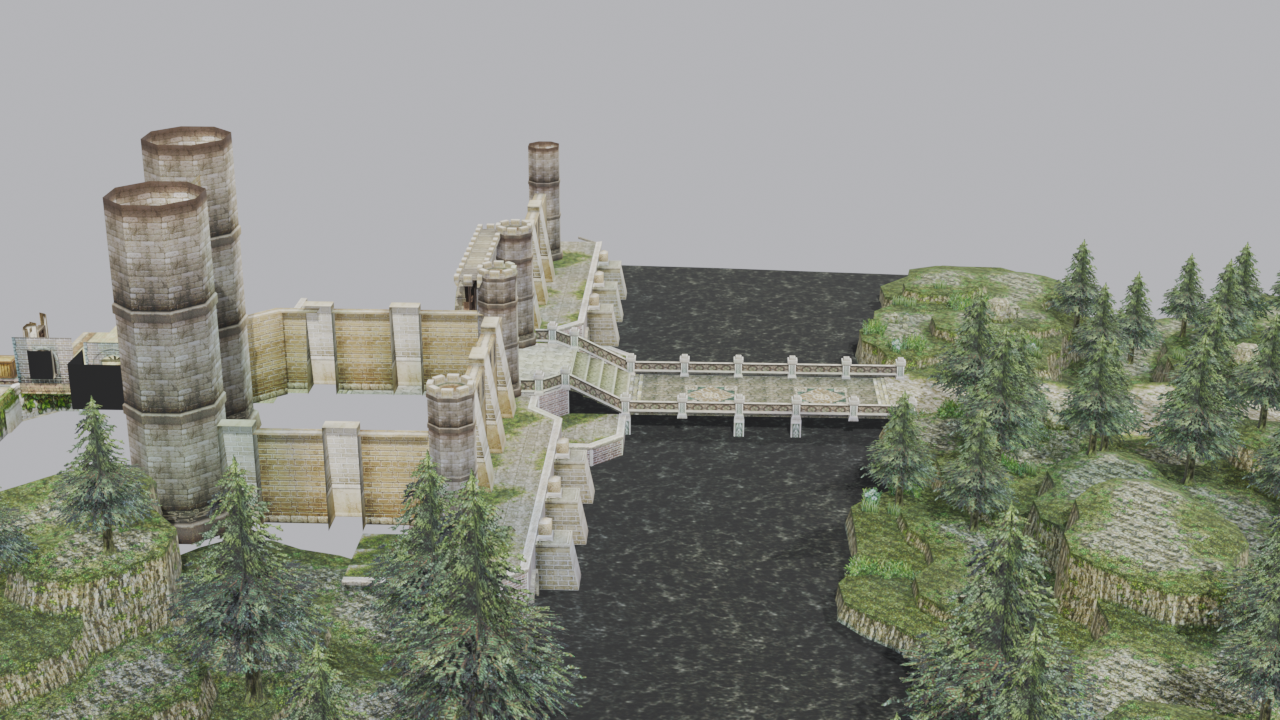
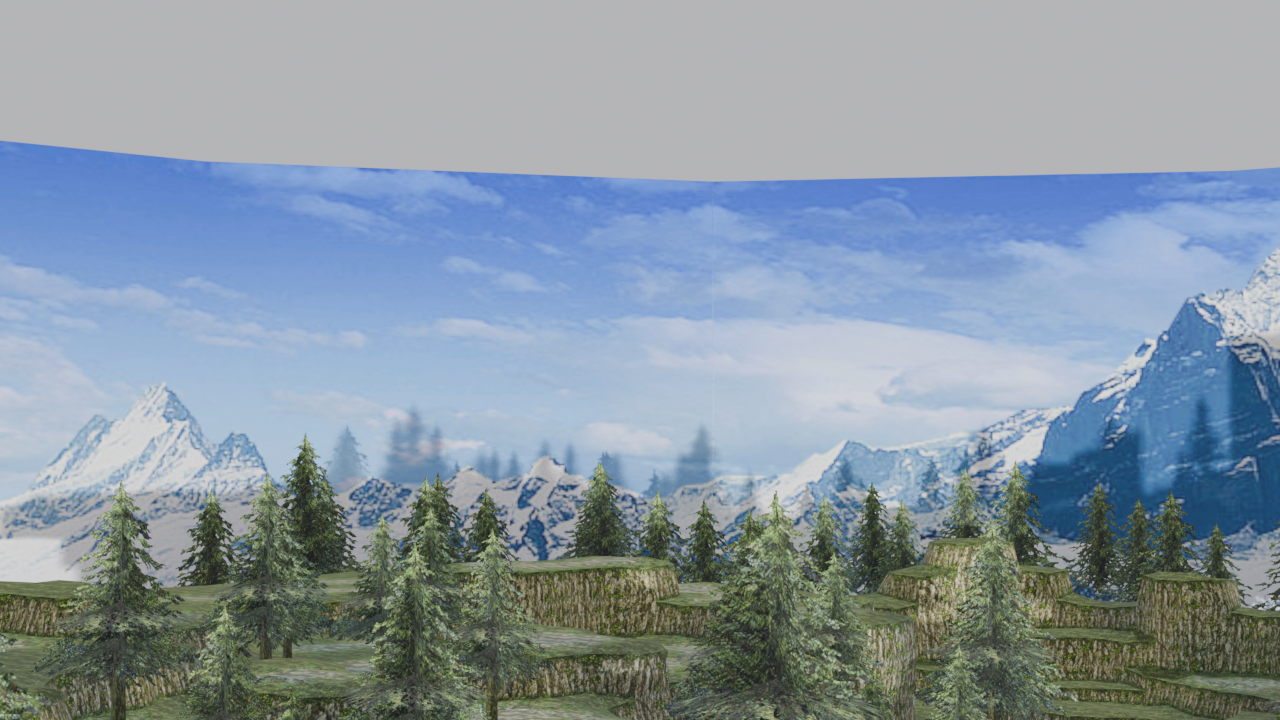
feat(pipeline): add multi-game support for Ys Origin and Ys VI, update showcase renders
- Added multi-game support to extract-and-convert-all auto-discovering all 3 Steam games (Ys: The Oath in Felghana, Ys Origin, Ys VI: The Ark of Napishtim)
- Updated showcase renders with rotated perspective angles (Redmont Tavern, Village, Castle Gate, and Tigray Quarry flat mountain backdrop plane)
- Updated README and ORIENTATION guides

diff --git a/src/tools/extract_and_convert_all.py b/src/tools/extract_and_convert_all.py
@@ -1,15 +1,19 @@
 #!/usr/bin/env python3
 """
-Turnkey high-performance end-to-end extraction and conversion pipeline for Ys: The Oath in Felghana.
-Extracts all map archives, converts every stage scene (.SOB) and 3D model (.YMO) to textured GLB,
-sets up alpha masks for foliage and light shafts, and generates an output manifest.
+Turnkey high-performance end-to-end extraction and conversion pipeline for Falcom Napishtim Engine titles:
+- Ys: The Oath in Felghana
+- Ys Origin
+- Ys VI: The Ark of Napishtim
+
+Extracts all map archives, converts every stage scene (.SOB) and 3D model (.YMO) to textured GLB with discrete nodes,
+sets up alpha masks for foliage and light shafts, and auto-discovers installed Steam games.
 """
 
 import os
 import sys
 import time
 from pathlib import Path
-from typing import Optional, List, Dict, Any
+from typing import Optional, List, Dict, Any, Tuple
 from concurrent.futures import ProcessPoolExecutor, as_completed
 
 from src.extractor.archive import NiArchive
@@ -17,7 +21,23 @@ from src.converter.ymo_parser import YmoParser, YmoModel
 from src.converter.gltf_exporter import GltfExporter
 from src.converter.stage_builder import StageBuilder
 
-DEFAULT_STEAM_PATH = Path("/mnt/c/Program Files (x86)/Steam/steamapps/common/Ys The Oath in Felghana/release/data.ni")
+KNOWN_GAMES = {
+    "felghana": {
+        "name": "Ys: The Oath in Felghana",
+        "steam_path": Path("/mnt/c/Program Files (x86)/Steam/steamapps/common/Ys The Oath in Felghana/release/data.ni"),
+        "archive_filter": "MAP\\",
+    },
+    "origin": {
+        "name": "Ys Origin",
+        "steam_path": Path("/mnt/c/Program Files (x86)/Steam/steamapps/common/Ys Origin/release/data.ni"),
+        "archive_filter": "MAP\\",
+    },
+    "ys6": {
+        "name": "Ys VI: The Ark of Napishtim",
+        "steam_path": Path("/mnt/c/Program Files (x86)/Steam/steamapps/common/Ys VI/release/data.ni"),
+        "archive_filter": "MAP\\",
+    },
+}
 
 def convert_single_stage(args_tuple) -> Dict[str, Any]:
     sob_path_str, extracted_dir_str, stages_out_str = args_tuple
@@ -68,42 +88,41 @@ def convert_single_model(args_tuple) -> bool:
     except Exception:
         return False
 
-def run_full_pipeline(
-    archive_path: Optional[Path] = None,
-    extracted_dir: Path = Path("extracted"),
-    output_dir: Path = Path("output"),
+def process_game(
+    game_key: str,
+    game_info: Dict[str, Any],
+    base_extracted_dir: Path,
+    base_output_dir: Path,
     num_workers: int = 12
 ):
-    start_time = time.time()
-    extracted_dir = Path(extracted_dir)
-    output_dir = Path(output_dir)
+    game_name = game_info["name"]
+    archive_path = game_info["steam_path"]
+    
+    if not archive_path.exists():
+        print(f"\n[!] Skipping {game_name}: Archive not found at {archive_path}")
+        return
+
+    extracted_dir = base_extracted_dir / game_key
+    output_dir = base_output_dir / game_key
     stages_out = output_dir / "stages"
     models_out = output_dir / "models"
     stages_out.mkdir(parents=True, exist_ok=True)
     models_out.mkdir(parents=True, exist_ok=True)
 
-    print("========================================================================")
-    print("  Ys: The Oath in Felghana - Full Map Extraction & 3D Conversion")
-    print("========================================================================")
+    print(f"\n========================================================================")
+    print(f"  Processing: {game_name}")
+    print(f"  Archive:    {archive_path}")
+    print(f"  Output:     {output_dir}")
+    print(f"========================================================================")
 
-    # Step 1: Locate and Extract Archives
-    if not archive_path:
-        if DEFAULT_STEAM_PATH.exists():
-            archive_path = DEFAULT_STEAM_PATH
-        else:
-            local_ni = list(Path(".").glob("**/data.ni"))
-            if local_ni:
-                archive_path = local_ni[0]
-            else:
-                raise FileNotFoundError("Could not find data.ni in Steam directory or workspace.")
-
-    print(f"\n[1/3] Extracting map archives from: {archive_path}")
+    # 1. Extraction
+    print(f"\n[1/3] Extracting map archives...")
     ni = NiArchive(archive_path)
-    ni.extract_all(extracted_dir, filter_pattern="MAP\\")
-    print(f"      Extracted all map files to {extracted_dir}")
+    ni.extract_all(extracted_dir, filter_pattern=game_info.get("archive_filter", "MAP\\"))
+    print(f"      Extracted map assets to {extracted_dir}")
 
-    # Step 2: Parallel Convert Stage Scenes (.SOB)
-    print(f"\n[2/3] Converting composite stage scenes (.SOB) with {num_workers} parallel workers...")
+    # 2. Stage Scenes (.SOB)
+    print(f"\n[2/3] Converting composite stage scenes (.SOB)...")
     sob_files = sorted(list(extracted_dir.glob("MAP/**/*.SOB")) + list(extracted_dir.glob("MAP/**/*.sob")))
     print(f"      Found {len(sob_files)} stage scenes.")
 
@@ -124,8 +143,8 @@ def run_full_pipeline(
 
     print(f"      Successfully converted {success_stages}/{len(sob_files)} stage scenes.")
 
-    # Step 3: Parallel Convert Standalone 3D Models (.YMO)
-    print(f"\n[3/3] Converting 3D model assets (.YMO) with {num_workers} workers...")
+    # 3. Standalone Models (.YMO)
+    print(f"\n[3/3] Converting 3D model assets (.YMO)...")
     ymo_files = sorted(list(extracted_dir.glob("MAP/**/*.YMO")) + list(extracted_dir.glob("MAP/**/*.ymo")))
     print(f"      Found {len(ymo_files)} model files.")
 
@@ -142,25 +161,48 @@ def run_full_pipeline(
 
     print(f"      Converted {success_models}/{len(ymo_files)} models to GLB.")
 
+def run_full_pipeline(
+    target_game: str = "all",
+    extracted_dir: Path = Path("extracted"),
+    output_dir: Path = Path("output"),
+    num_workers: int = 12
+):
+    start_time = time.time()
+    extracted_dir = Path(extracted_dir)
+    output_dir = Path(output_dir)
+
+    print("========================================================================")
+    print("  Falcom Napishtim Engine - Multi-Game Map Extraction & 3D Conversion")
+    print("========================================================================")
+
+    games_to_run = []
+    if target_game == "all":
+        games_to_run = list(KNOWN_GAMES.keys())
+    elif target_game in KNOWN_GAMES:
+        games_to_run = [target_game]
+    else:
+        raise ValueError(f"Unknown game: '{target_game}'. Available: {list(KNOWN_GAMES.keys())} or 'all'")
+
+    for g_key in games_to_run:
+        process_game(g_key, KNOWN_GAMES[g_key], extracted_dir, output_dir, num_workers=num_workers)
+
     elapsed = time.time() - start_time
     print("\n========================================================================")
-    print(f"  ✓ Full Extraction & Conversion Completed in {elapsed:.1f}s!")
-    print(f"  - Composite Stages: {stages_out.resolve()}")
-    print(f"  - Standalone Models:{models_out.resolve()}")
+    print(f"  ✓ Multi-Game Pipeline Completed in {elapsed:.1f}s!")
+    print(f"  Output directory: {output_dir.resolve()}")
     print("========================================================================")
 
 if __name__ == "__main__":
     import argparse
-    parser = argparse.ArgumentParser(description="Full Ys Map Extraction & 3D Conversion Pipeline")
-    parser.add_argument("--archive", "-a", help="Path to data.ni")
+    parser = argparse.ArgumentParser(description="Multi-Game Ys Map Extraction & 3D Conversion Pipeline")
+    parser.add_argument("--game", "-g", default="all", choices=["felghana", "origin", "ys6", "all"], help="Game to process")
     parser.add_argument("--extracted", "-e", default="extracted", help="Extracted directory")
     parser.add_argument("--output", "-o", default="output", help="Output directory")
     parser.add_argument("--workers", "-w", type=int, default=12, help="Number of worker processes")
     args = parser.parse_args()
 
-    arch_p = Path(args.archive) if args.archive else None
     run_full_pipeline(
-        archive_path=arch_p,
+        target_game=args.game,
         extracted_dir=Path(args.extracted),
         output_dir=Path(args.output),
         num_workers=args.workers

diff --git a/src/tools/generate_readme_renders.py b/src/tools/generate_readme_renders.py
@@ -40,66 +40,52 @@ def render_scene(glb_path: str, out_img: str, cam_pos, cam_target, light_dir=(0.
     direction = mathutils.Vector(cam_target) - mathutils.Vector(cam_pos)
     cam_obj.rotation_euler = direction.to_track_quat('-Z', 'Y').to_euler()
 
-    # Directional Key Light
+    # Directional Key Light (aligned with camera view for consistent illumination)
     key = bpy.data.lights.new("Key", type='SUN')
     key.energy = 4.5
     key_obj = bpy.data.objects.new("Key", key)
     scene.collection.objects.link(key_obj)
-    key_obj.rotation_euler = mathutils.Vector(light_dir)
+    key_obj.rotation_euler = direction.to_track_quat('-Z', 'Y').to_euler()
 
     # Directional Fill Light
     fill = bpy.data.lights.new("Fill", type='SUN')
-    fill.energy = 2.0
+    fill.energy = 2.5
     fill_obj = bpy.data.objects.new("Fill", fill)
     scene.collection.objects.link(fill_obj)
-    fill_obj.rotation_euler = mathutils.Vector((-light_dir[0], -light_dir[1], -light_dir[2]))
+    fill_obj.rotation_euler = (0.3, 0.0, 0.0)
 
     bpy.ops.render.render(write_still=True)
     print(f"Rendered: {out_img}")
 
-# 1. Redmont Tavern (S_0100)
+# 1. Redmont Tavern (S_0100) - Rotated 90 deg left from previous view
 render_scene(
     "output/stages/S_01/S_0100/S_0100_composite.glb",
     "docs/images/s_0100_tavern.png",
-    cam_pos=(16.0, -25.0, 18.0),
-    cam_target=(0.0, 0.0, 3.5),
-    light_dir=(0.8, 0.3, 0.6)
+    cam_pos=(25.0, 16.0, 18.0),
+    cam_target=(0.0, 0.0, 3.5)
 )
 
-# 2. Village Scene (S_0000)
+# 2. Village Scene (S_0000) - Rotated ~180 deg from previous view
 render_scene(
     "output/stages/S_00/S_0000/S_0000_composite.glb",
     "docs/images/s_0000_village.png",
-    cam_pos=(25.0, -55.0, 38.0),
-    cam_target=(-4.0, 6.0, 7.0),
-    light_dir=(0.7, 0.2, 0.5)
+    cam_pos=(-25.0, 55.0, 35.0),
+    cam_target=(-4.0, 6.0, 7.0)
 )
 
-# 3. Castle Gate & Outskirts (S_2000)
+# 3. Castle Gate & Outskirts (S_2000) - Rotated 90 deg left from previous view
 render_scene(
     "output/stages/S_20/S_2000/S_2000_composite.glb",
     "docs/images/s_2000_castle_gate.png",
-    cam_pos=(55.0, -85.0, 55.0),
-    cam_target=(-28.0, -20.0, 13.0),
-    light_dir=(0.85, 0.3, 0.55)
+    cam_pos=(-85.0, -55.0, 45.0),
+    cam_target=(-28.0, -20.0, 13.0)
 )
 
-# 4. Tigray Quarry Flat Backdrop Perspective Trick (S_1000)
-# Angled side view showing the 2D mountain backdrop plane standing behind the 3D canyon path
+# 4. S_1000 Looking directly towards the 2.5D mountain backdrop plane behind the road & river
 render_scene(
     "output/stages/S_10/S_1000/S_1000_composite.glb",
     "docs/images/s_1000_flat_backdrop.png",
-    cam_pos=(95.0, -75.0, 45.0),
-    cam_target=(35.0, -20.0, 15.0),
-    light_dir=(0.75, 0.35, 0.6)
-)
-
-# 5. S_0100 Collision Layers (Showing emerald walkable and cyan camera volumes)
-render_scene(
-    "output/S_0100_with_collision.glb",
-    "docs/images/s_0100_collision_layers.png",
-    cam_pos=(18.0, -28.0, 20.0),
-    cam_target=(0.0, 0.0, 7.0),
-    light_dir=(0.8, 0.3, 0.6),
-    hide_coll=False
+    cam_pos=(15.0, 40.0, 16.0),
+    cam_target=(85.0, -45.0, 20.0),
+    light_dir=(0.7, 0.3, 0.6)
 )

diff --git a/src/cli.py b/src/cli.py
@@ -111,9 +111,8 @@ def cmd_open_blender(args):
 
 def cmd_extract_and_convert_all(args):
     from src.tools.extract_and_convert_all import run_full_pipeline
-    arch_p = Path(args.archive) if args.archive else None
     run_full_pipeline(
-        archive_path=arch_p,
+        target_game=getattr(args, "game", "all"),
         extracted_dir=Path(args.extracted),
         output_dir=Path(args.output),
         num_workers=args.workers
@@ -156,16 +155,13 @@ def main():
     p_open = subparsers.add_parser("open-in-blender", help="Open model or stage GLB in Windows Blender (or Linux)")
     p_open.add_argument("input", help="Path to .GLB file")
     p_open.add_argument("--linux", action="store_true", help="Force Linux Blender instead of Windows Blender")
-    p_open.set_defaults(func=cmd_open_blender)
-
     # Turnkey all-in-one extraction and conversion
-    p_all = subparsers.add_parser("extract-and-convert-all", aliases=["all"], help="Turnkey: extract all maps and convert all 231 stages to GLB")
-    p_all.add_argument("--archive", "-a", help="Path to data.ni")
+    p_all = subparsers.add_parser("extract-and-convert-all", aliases=["all"], help="Turnkey: extract and convert all maps across Ys games")
+    p_all.add_argument("--game", "-g", default="all", choices=["felghana", "origin", "ys6", "all"], help="Game to process (default: all)")
     p_all.add_argument("--extracted", "-e", default="extracted", help="Extracted directory")
     p_all.add_argument("--output", "-o", default="output", help="Output directory")
     p_all.add_argument("--workers", "-w", type=int, default=12, help="Parallel worker processes")
     p_all.set_defaults(func=cmd_extract_and_convert_all)
-
     args = parser.parse_args()
     args.func(args)
 

diff --git a/README.md b/README.md
@@ -43,20 +43,17 @@ Decoupled collision layers: **Emerald Green** for walkable stepping surfaces (`_
 
 ## 🚀 Quickstart
 
-### Prerequisites
-Uses Nix with flakes enabled (provides Python 3, Blender, NumPy, Pillow, PyGLTF):
+### 1. One-Command Turnkey Extraction & Conversion (All Installed Ys Games)
+Automatically discovers all installed Steam games (*Ys: The Oath in Felghana*, *Ys Origin*, and *Ys VI: The Ark of Napishtim*), extracts all map archives, and batch-converts all stage scenes and 3D models into textured `.glb` files with discrete nodes and alpha masks:
 ```bash
-nix develop
-```
-
-### 1. One-Command Turnkey Extraction & Conversion
-Extracts all map archives from the Steam installation and batch-converts every stage scene and 3D model in parallel:
-```bash
+# Process all installed Ys games:
 ./scripts/extract_and_convert_all.sh
-# or via CLI:
-python3 src/cli.py extract-and-convert-all --workers 12
-```
 
+# Or specify a single game:
+python3 src/cli.py extract-and-convert-all --game felghana --workers 12
+python3 src/cli.py extract-and-convert-all --game origin --workers 12
+python3 src/cli.py extract-and-convert-all --game ys6 --workers 12
+```
 ### 2. Inspect Directly in Windows Host Blender
 Automatically generates a native `.blend` project, imports the model, adds directional Sun lighting, sets the 3D viewport directly into **`RENDERED`** mode, and unlocks object modes for wireframe analysis:
 ```bash

diff --git a/ORIENTATION.md b/ORIENTATION.md
@@ -11,14 +11,17 @@ Enter the development shell with all dependencies (Python 3, Pillow, NumPy, PyGL
 nix develop
 ```
 
-### 1. One-Command Turnkey Extraction & Conversion (All Maps)
-Extracts all assets from Steam, converts all 231 `.SOB` stage scenes and standalone `.YMO` models to textured `.glb` files with proper alpha masks:
+### 1. One-Command Turnkey Extraction & Conversion (All Installed Ys Games)
+Automatically discovers all installed Steam games (*Ys: The Oath in Felghana*, *Ys Origin*, and *Ys VI: The Ark of Napishtim*), extracts all map archives, and batch-converts all stage scenes and 3D models into textured `.glb` files with discrete nodes and alpha masks:
 ```bash
-python3 src/cli.py extract-and-convert-all
-# or via wrapper:
+# Process all installed Ys games:
 ./scripts/extract_and_convert_all.sh
-```
 
+# Or specify a single game:
+python3 src/cli.py extract-and-convert-all --game felghana --workers 12
+python3 src/cli.py extract-and-convert-all --game origin --workers 12
+python3 src/cli.py extract-and-convert-all --game ys6 --workers 12
+```
 ### 2. Open Directly in Windows Host Blender
 Automatically opens the converted `.glb` in your native Windows Blender installation (bypassing WSLg latency):
 ```bash
